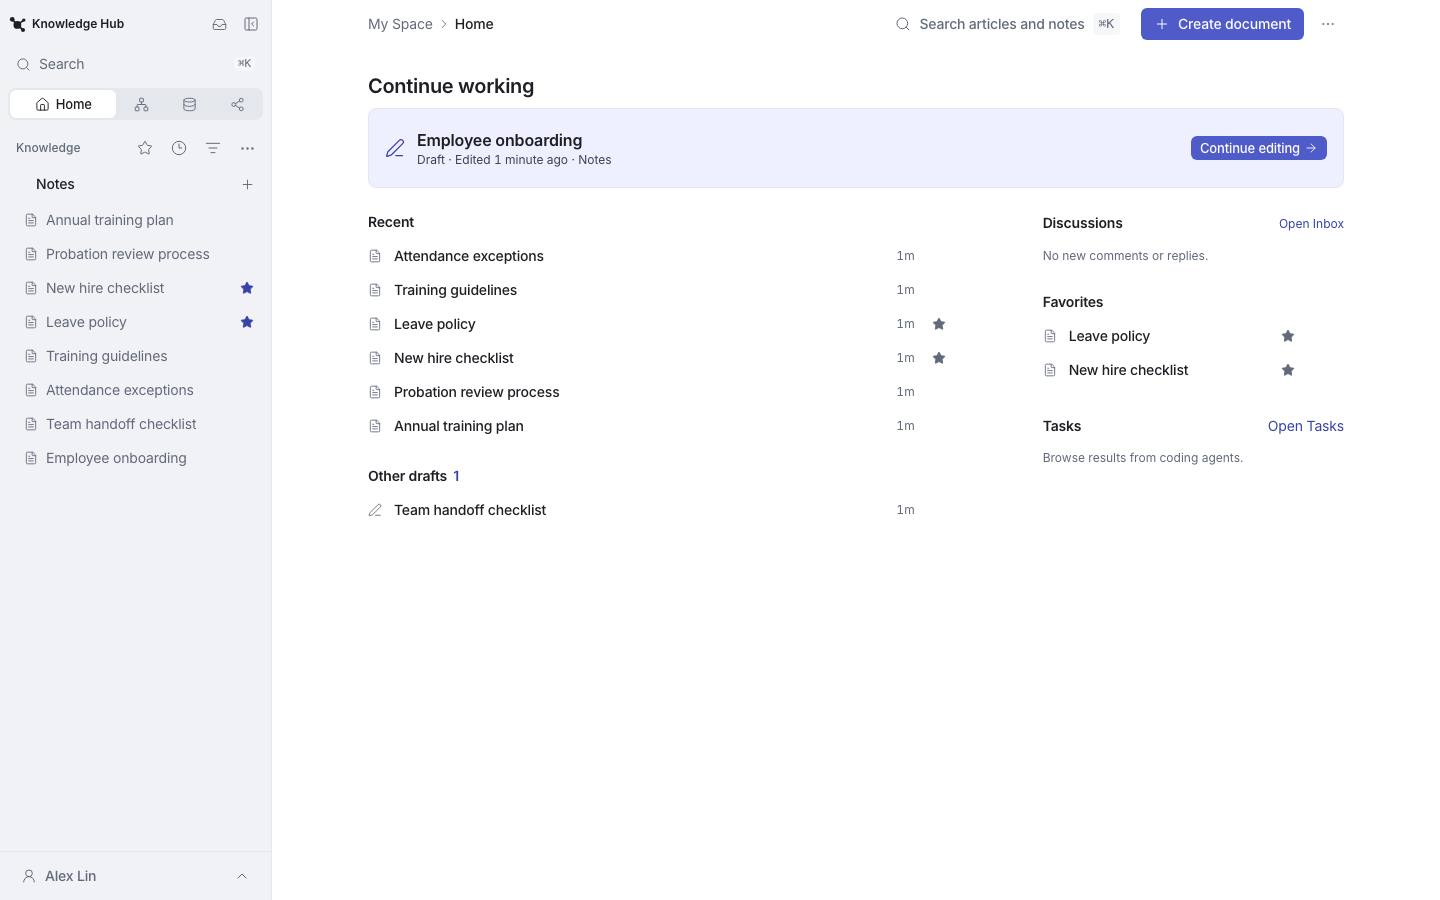
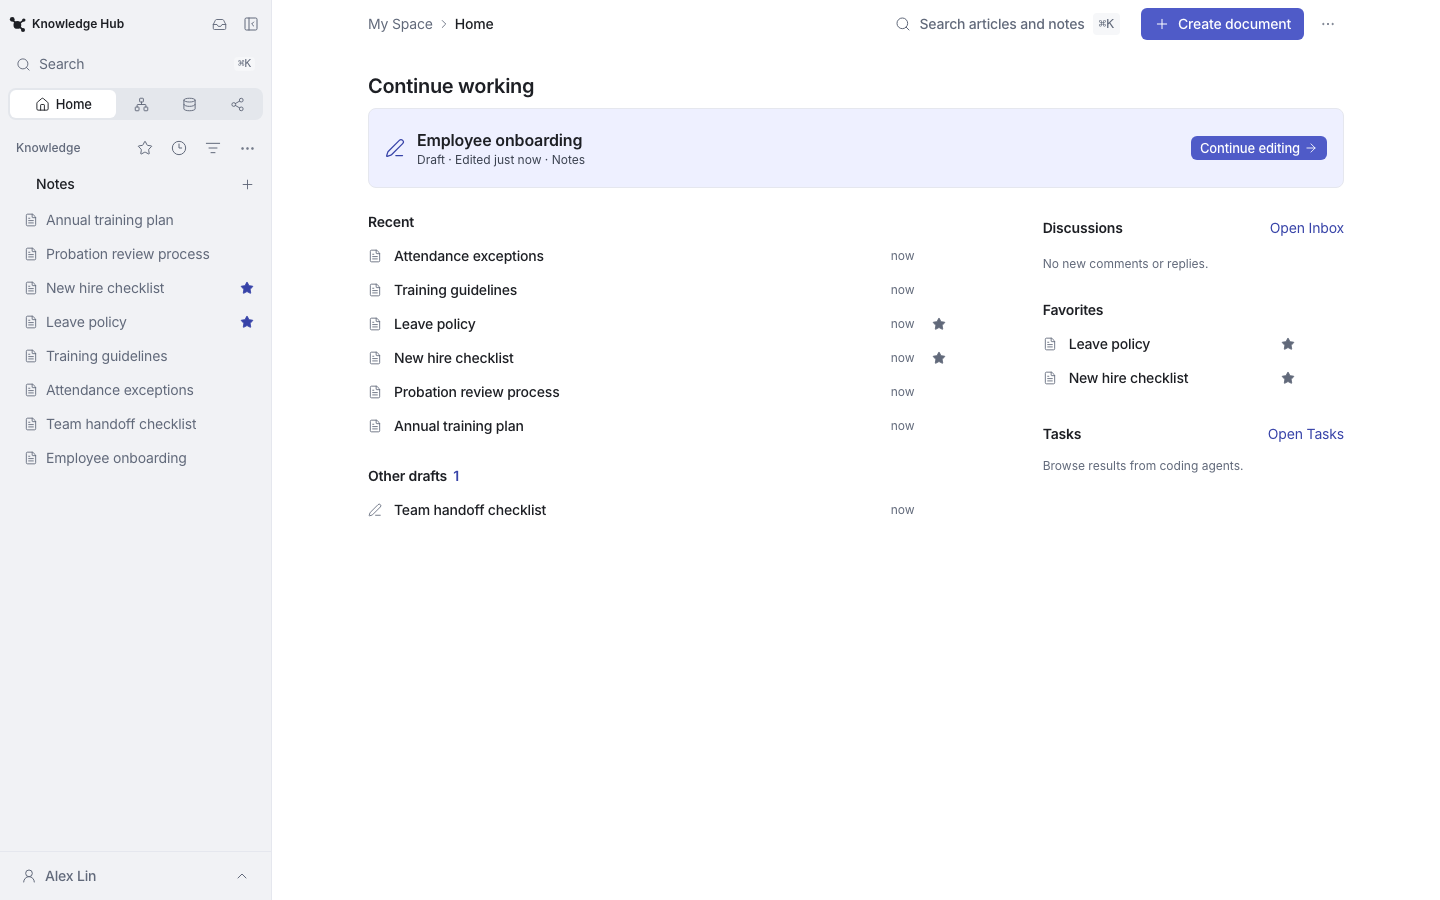
Use one style for Home section links

diff --git a/src/components/knowledge/personal-home.tsx b/src/components/knowledge/personal-home.tsx
@@ -30,14 +30,18 @@ import { RowPreviewButton } from "./row-preview-button";
 
 type Doc = ContinueDoc;
 
-function Section({ title, count, action, children }: { title: string; count?: number; action?: ReactNode; children: React.ReactNode }) {
+function Section({ title, count, action, children }: { title: string; count?: number; action?: { href: string; label: string }; children: React.ReactNode }) {
   return (
     <section aria-label={title} className="min-w-0">
       <div className="flex items-baseline justify-between gap-3 px-3 pb-2">
         <h2 className="text-body font-semibold text-kh-text">
           {title}{count ? <span className="ml-1.5 text-kh-selected-text">{count}</span> : null}
         </h2>
-        {action}
+        {action && (
+          <Link href={action.href} className="kh-control kh-focus-ring inline-flex min-h-8 items-center rounded-md text-body text-kh-link hover:underline">
+            {action.label}
+          </Link>
+        )}
       </div>
       {children}
     </section>
@@ -284,14 +288,14 @@ export function PersonalHome({ workspaceId, documents, drafts, reminders = [], n
           </Section>}
         </div>
         <div className="min-w-0 space-y-6">
-          <Section title="Discussions" count={notices.length} action={<Link className="kh-focus-ring inline-flex min-h-6 items-center rounded-md text-caption text-kh-link" href={`/w/${workspaceId}/inbox`}>Open Inbox</Link>}>
+          <Section title="Discussions" count={notices.length} action={{ href: `/w/${workspaceId}/inbox`, label: "Open Inbox" }}>
             {notices.length ? <UnreadDiscussions notices={notices} /> : <EmptyLine>No new comments or replies.</EmptyLine>}
           </Section>
           <Section title="Favorites">
             {favorites.length ? <ul onKeyDown={navigateListRows} className="space-y-0.5">{favorites.map((doc, i) => documentRow(doc, { showSource: sourceChanges(favorites, i), stackProvenance: true }))}</ul>
               : <EmptyLine>Star a document to keep it here.</EmptyLine>}
           </Section>
-          <Section title="Tasks" action={<Link className="kh-control kh-focus-ring inline-flex min-h-8 items-center rounded-md text-body text-kh-link hover:underline" href={`/w/${workspaceId}/tasks`}>Open Tasks</Link>}>
+          <Section title="Tasks" action={{ href: `/w/${workspaceId}/tasks`, label: "Open Tasks" }}>
             <p className="px-3 text-caption text-kh-text-muted">Browse results from coding agents.</p>
           </Section>
           <AttentionList workspaceId={workspaceId} reminders={reminders} />

diff --git a/tests/unit/personal-home-folder-sync.test.tsx b/tests/unit/personal-home-folder-sync.test.tsx
@@ -236,10 +236,12 @@ describe("C on Home opens a new note", () => {
     expect(html).toMatch(/<button [^>]*data-home-search/);
   });
 
-  // Launcher audit (WCAG 2.5.8, target size): the caption link was 16px tall.
-  it("gives the Open Inbox link a 24px target", () => {
+  it("gives the Inbox and Tasks section links the same 32px target and text style", () => {
     const html = renderToStaticMarkup(<PersonalHome workspaceId="ws" documents={[]} drafts={[]} />);
-    expect(html).toMatch(/<a[^>]*class="[^"]*min-h-6[^"]*"[^>]*>Open Inbox</);
+    const inbox = html.match(/<a[^>]*class="([^"]*)"[^>]*>Open Inbox</)?.[1];
+    const tasks = html.match(/<a[^>]*class="([^"]*)"[^>]*>Open Tasks</)?.[1];
+    expect(inbox).toContain("min-h-8");
+    expect(tasks).toEqual(inbox);
   });
 
   // Launcher audit (axe `label-content-name-mismatch`): the field is announced as "Search
